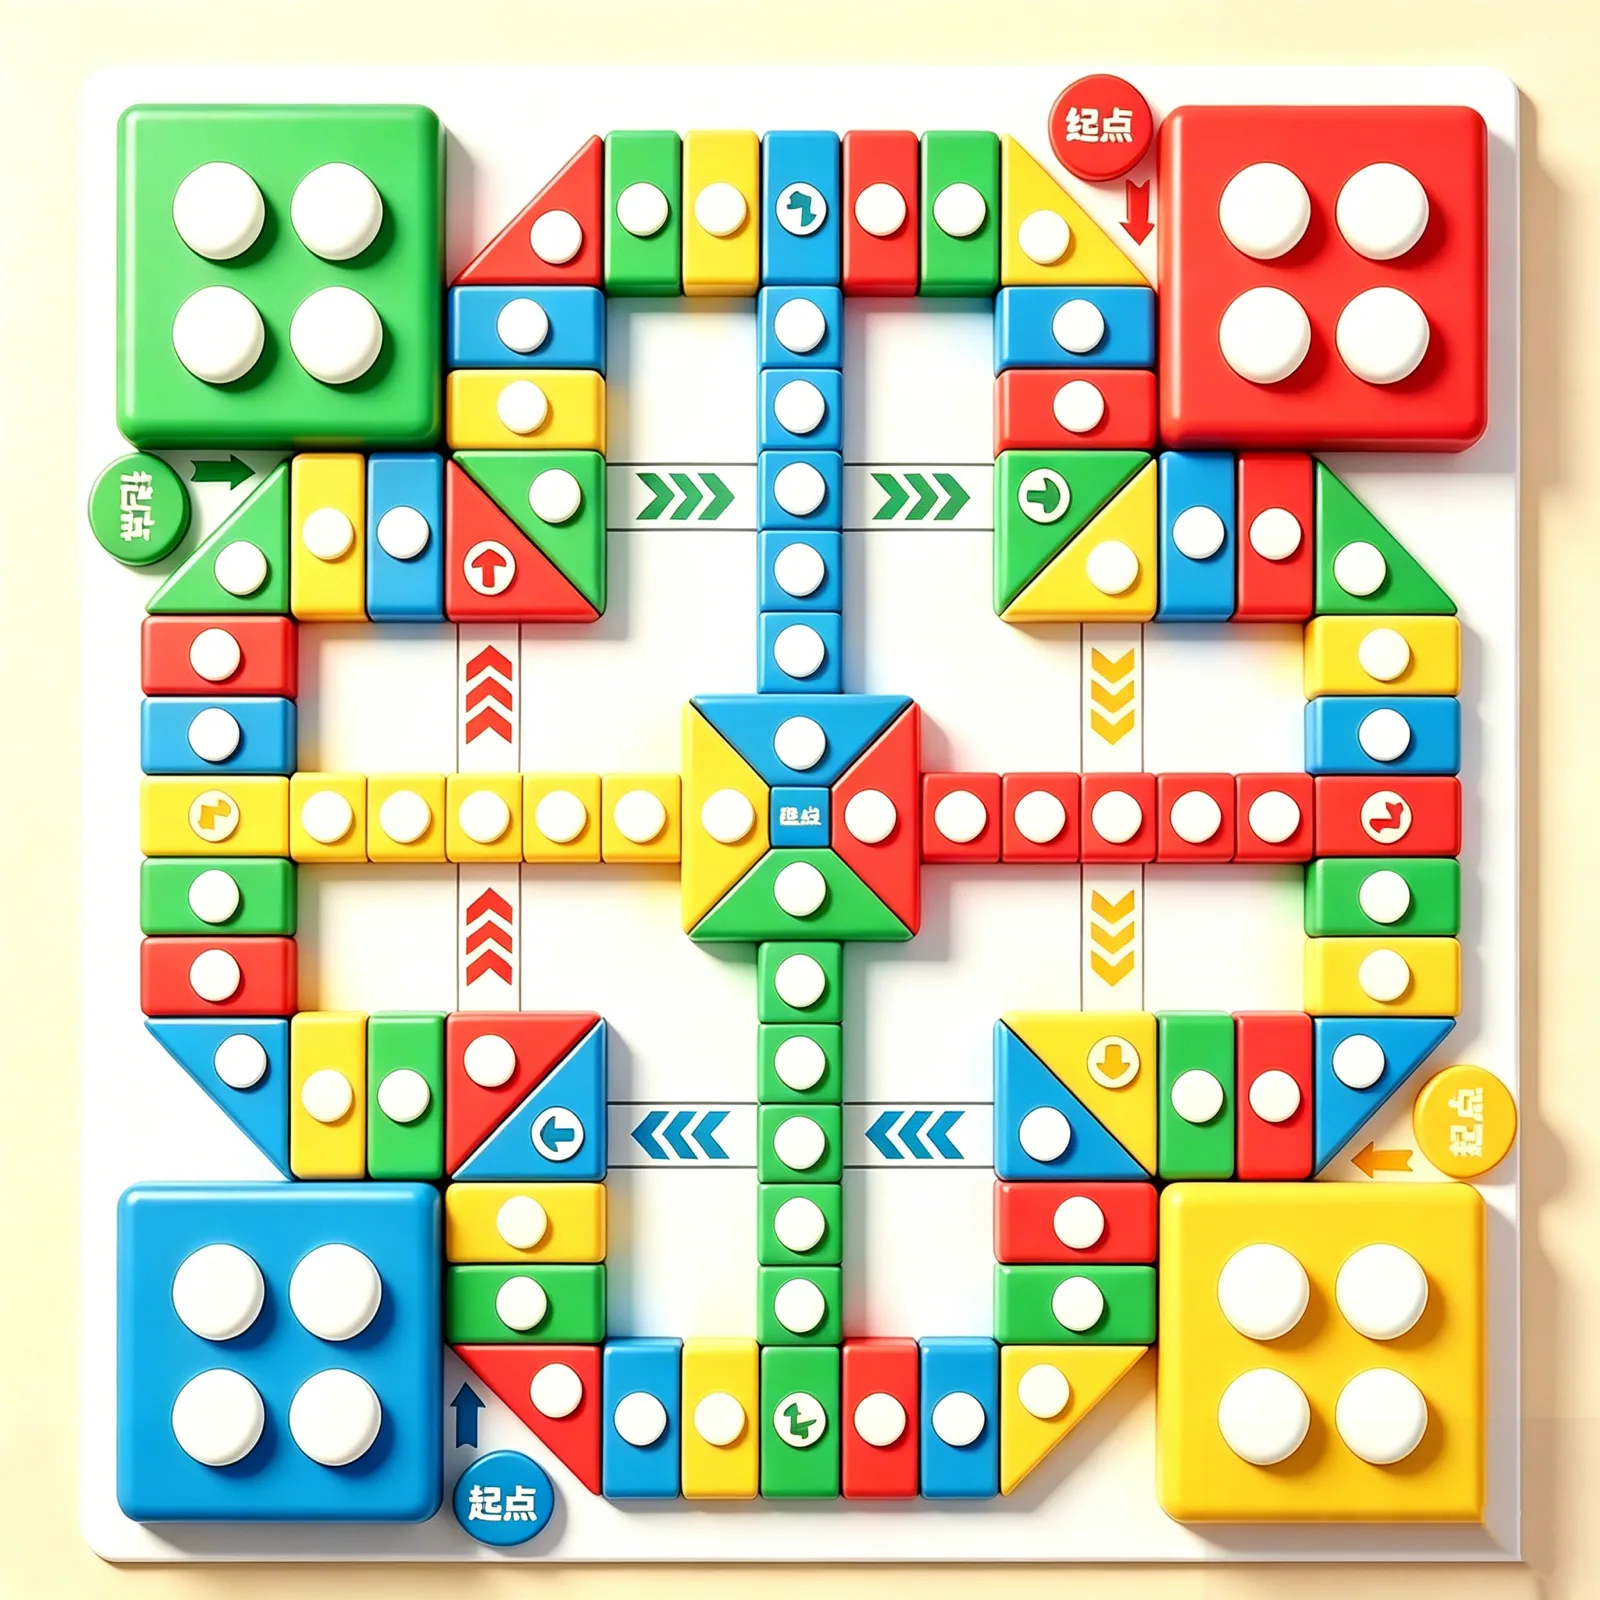
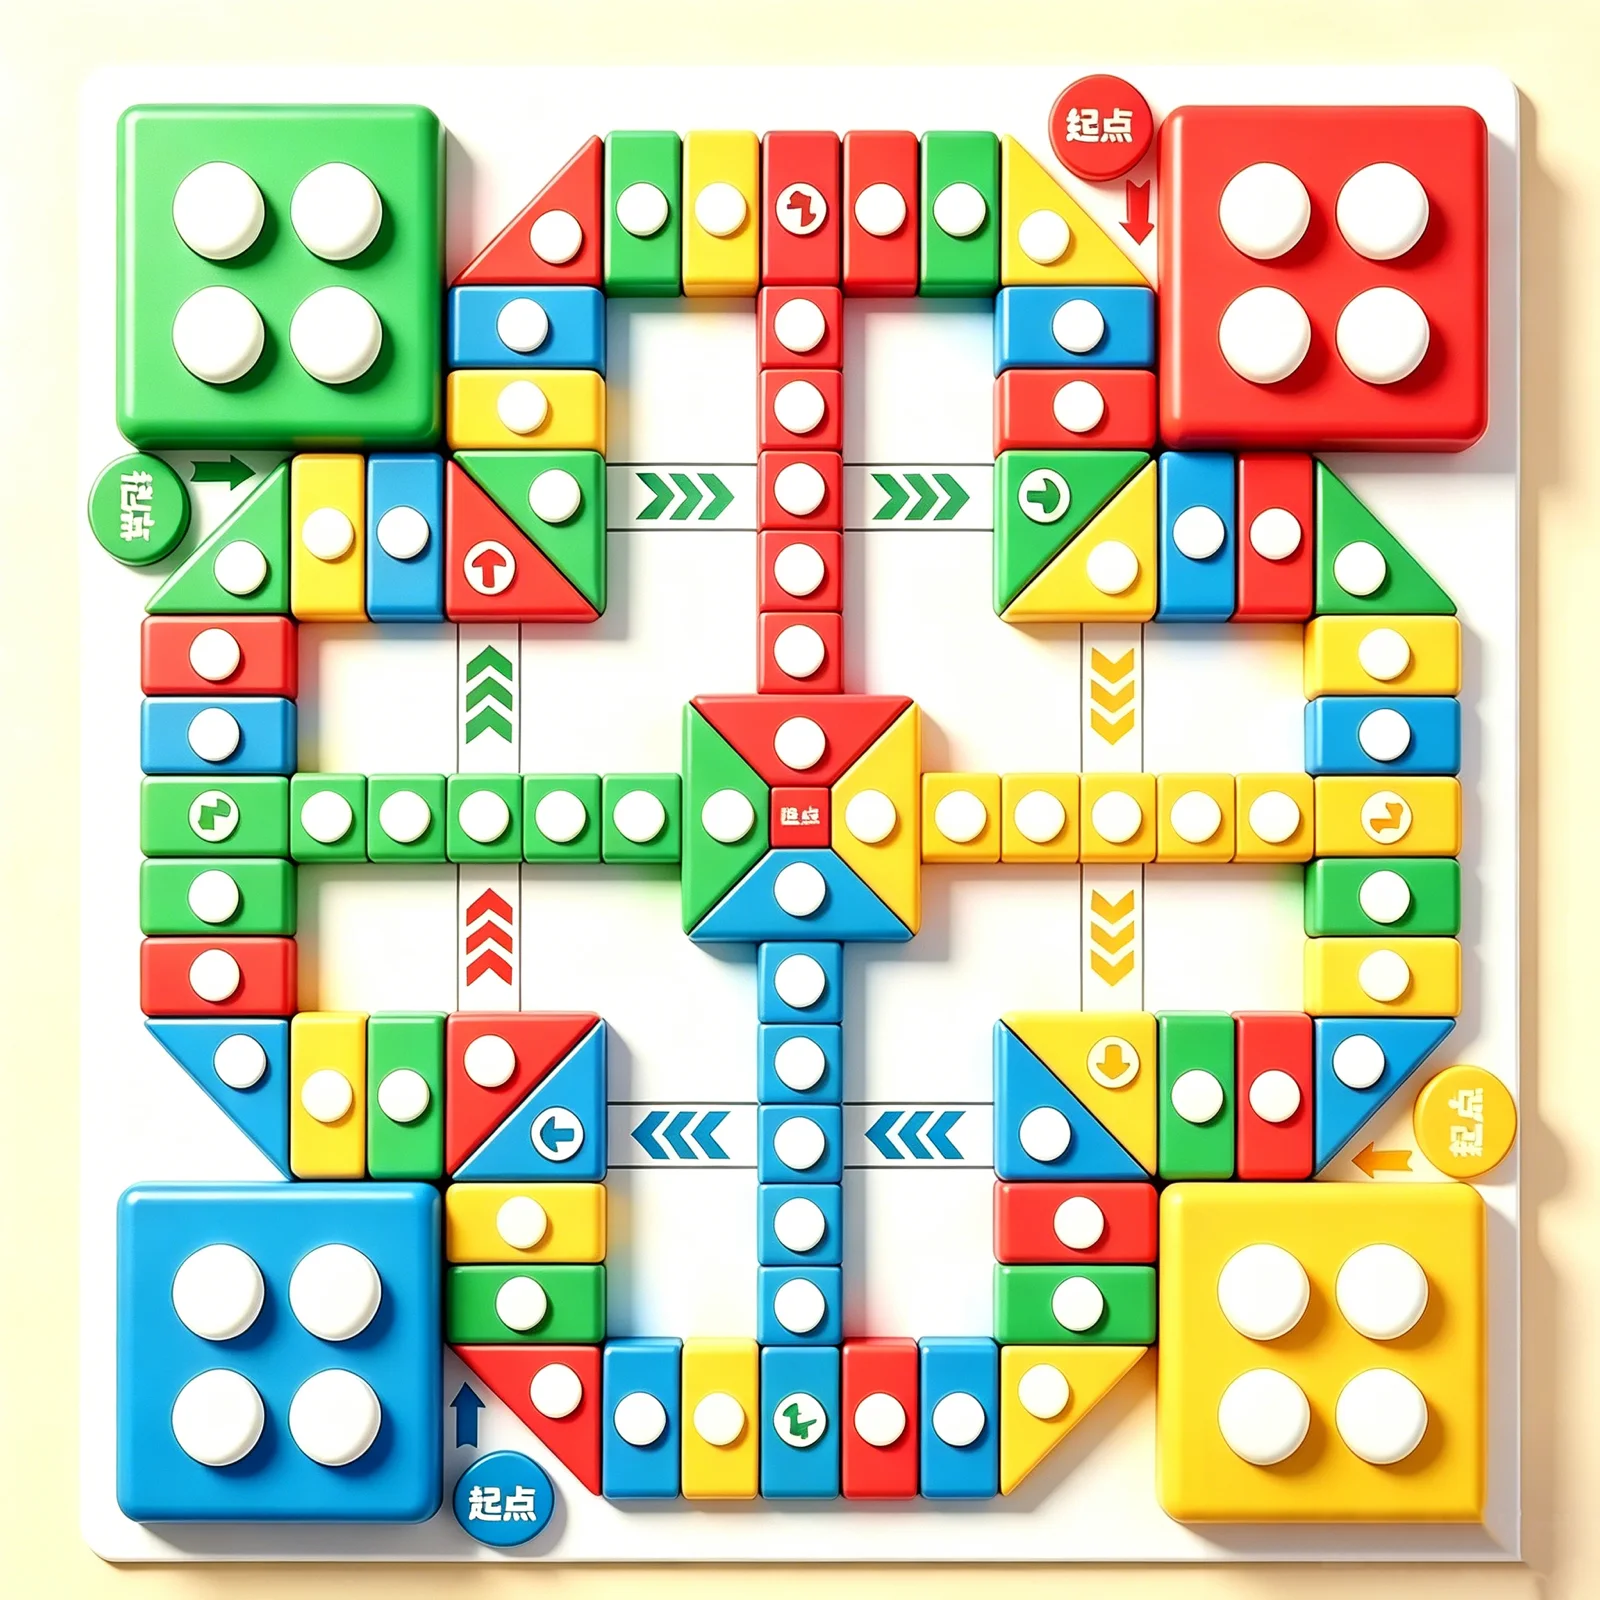
fix: calibrate board points and dice display

diff --git a/index.html b/index.html
@@ -181,6 +181,20 @@
             font: 12px/1.2 ui-monospace, SFMono-Regular, Menlo, Consolas, monospace;
             pointer-events: none; display: none;
         }
+        .board.preview-board .debug-label { display: none; }
+        .board.debug-coords .debug-label { display: grid; }
+        .debug-label {
+            position: absolute; transform: translate(-50%, -50%); z-index: 35;
+            width: 22px; height: 22px; border-radius: 50%;
+            background: #111d; color: #fff; font-size: 11px; font-weight: 1000;
+            place-items: center; pointer-events: none; text-shadow: 0 1px 1px #000;
+            box-shadow: 0 0 0 2px #fff, 0 2px 6px #0008;
+        }
+        .debug-label.problem {
+            width: 30px; height: 30px; background: #ff2b2be6; color: #fff;
+            box-shadow: 0 0 0 3px #fff, 0 0 0 6px #ffe600, 0 4px 10px #0009;
+            font-size: 13px;
+        }
         .board::before {
             content: ""; position: absolute; inset: 0;
             background:
@@ -274,13 +288,13 @@
         .hint { color: #7d5a32; font-weight: 1000; }
         .badge { display: inline-block; border-radius: 999px; background: linear-gradient(180deg, #fff, #ffe8b5); padding: .38rem .62rem; font-size: 13px; font-weight: 1000; border: 1px solid #fff9; box-shadow: 0 5px 12px #5b35141c; }
         .dice-row {
-            display: grid; grid-template-columns: 118px 1fr; gap: 14px; align-items: center; margin-top: 14px;
+            display: grid; grid-template-columns: 118px 1fr; gap: clamp(24px, 3vw, 38px); align-items: center; margin-top: 14px;
             padding: 12px; border-radius: 24px; background: linear-gradient(135deg, #5d73ff, #8d52ff 55%, #ffb94c);
             box-shadow: 0 14px 28px #3c2f762e, inset 0 1px 0 #fff8;
         }
         .dice-container {
-            width: 106px; height: 106px; perspective: 600px; cursor: pointer;
-            display: grid; place-items: center; border-radius: 28px;
+            width: 106px; height: 106px; min-width: 106px; min-height: 106px; flex: 0 0 106px;
+            perspective: 600px; cursor: pointer; display: grid; place-items: center; border-radius: 28px; position: relative;
             background: radial-gradient(circle at 35% 25%, #fff, #ffe6a0 48%, #ef9f28 100%);
             box-shadow: inset 0 2px 0 #fff, 0 10px 20px #0003;
         }
@@ -358,11 +372,20 @@
         }
         /* 显示特定点数的类 */
         .dice-cube.show-1 { transform: rotateY(0deg) rotateX(0deg); }
-        .dice-cube.show-2 { transform: rotateX(90deg) rotateY(0deg); }
-        .dice-cube.show-3 { transform: rotateY(90deg) rotateX(0deg); }
-        .dice-cube.show-4 { transform: rotateY(-90deg) rotateX(0deg); }
-        .dice-cube.show-5 { transform: rotateX(-90deg) rotateY(0deg); }
+        .dice-cube.show-2 { transform: rotateX(-90deg) rotateY(0deg); }
+        .dice-cube.show-3 { transform: rotateY(-90deg) rotateX(0deg); }
+        .dice-cube.show-4 { transform: rotateY(90deg) rotateX(0deg); }
+        .dice-cube.show-5 { transform: rotateX(90deg) rotateY(0deg); }
         .dice-cube.show-6 { transform: rotateY(180deg) rotateX(0deg); }
+        .dice-flat {
+            position: absolute; width: 62px; height: 62px; border-radius: 11px;
+            background: linear-gradient(145deg, #fff, #fff1cf); border: 2px solid #8c5d24;
+            box-shadow: inset -4px -4px 8px #0001, inset 4px 4px 8px #fff, 0 5px 10px #0002;
+            display: none; grid-template-columns: repeat(3, 1fr); grid-template-rows: repeat(3, 1fr); padding: 7px; z-index: 2;
+        }
+        .dice-container.final .dice-flat { display: grid; }
+        .dice-container.final .dice-cube { visibility: hidden; }
+        .dice-flat .pip { width: 12px; height: 12px; align-self: center; justify-self: center; }
         .roll-btn {
             height: 72px; font-size: 22px; border-radius: 22px;
             background: linear-gradient(180deg, #fff061, #ff982f 68%, #e85c20);
@@ -492,7 +515,7 @@
             .status { padding: .62rem; border-radius: 18px; align-items: flex-start; }
             .current-name { font-size: 20px; }
             .badge { font-size: 11px; padding: .28rem .46rem; }
-            .dice-row { grid-template-columns: 92px 1fr; gap: 10px; padding: 9px; border-radius: 20px; }
+            .dice-row { grid-template-columns: 92px 1fr; gap: 16px; padding: 9px; border-radius: 20px; }
             .dice-container { width: 86px; height: 86px; border-radius: 22px; }
             .dice-cube { width: 54px; height: 54px; }
             .face.front  { transform: rotateY(0deg) translateZ(27px); }
@@ -725,12 +748,14 @@
                                     <div class="pip"></div>
                                 </div>
                             </div>
+                            <div class="dice-flat" id="diceFlat" aria-hidden="true"></div>
                         </div>
                         <button class="roll-btn" id="rollBtn">🎲 掷骰子</button>
                     </div>
                     <div class="actions">
                         <button class="secondary" id="backSetupBtn">返回设置</button>
                         <button class="secondary" id="gameHomeBtn">返回大厅</button>
+                        <button class="secondary" id="debugCoordsBtn">点位数字</button>
                         <button class="warn" id="newGameBtn">重开</button>
                     </div>
                 </div>
@@ -823,12 +848,34 @@
         } catch(e) { console.log('音效播放失败'); }
     }
 
+    function setFlatDice(value) {
+        const diceFlat = document.getElementById('diceFlat');
+        const diceContainer = document.getElementById('diceContainer');
+        if (!diceFlat || !diceContainer) return;
+        const positions = {
+            1: [5],
+            2: [1, 9],
+            3: [1, 5, 9],
+            4: [1, 3, 7, 9],
+            5: [1, 3, 5, 7, 9],
+            6: [1, 3, 4, 6, 7, 9]
+        };
+        diceFlat.innerHTML = (positions[value] || []).map(pos => `<span class="pip" style="grid-column:${((pos - 1) % 3) + 1};grid-row:${Math.floor((pos - 1) / 3) + 1}"></span>`).join('');
+        diceContainer.classList.add('final');
+    }
+
+    function showRollingDice() {
+        const diceContainer = document.getElementById('diceContainer');
+        if (diceContainer) diceContainer.classList.remove('final');
+    }
+
     // ========== 3D骰子动画系统 (基于 ludo-dice-roller) ==========
     function animateDiceRoll(callback) {
         const diceCube = document.getElementById('diceCube');
         if (!diceCube) { if (callback) callback(); return; }
 
         playDiceRollSound();
+        showRollingDice();
 
         // 添加滚动动画类
         diceCube.classList.remove('show-1', 'show-2', 'show-3', 'show-4', 'show-5', 'show-6');
@@ -838,17 +885,11 @@
 
         setTimeout(() => {
             diceCube.classList.remove('rolling');
-
-            // 移除所有show类
-            for (let i = 1; i <= 6; i++) {
-                diceCube.classList.remove('show-' + i);
-            }
-
-            // 添加结果类
+            for (let i = 1; i <= 6; i++) diceCube.classList.remove('show-' + i);
             diceCube.classList.add('show-' + result);
-
             playDiceResultSound(result);
-
+            diceCube.dataset.finalRoll = String(result);
+            setFlatDice(result);
             if (callback) callback(result);
         }, 700);
     }
@@ -860,16 +901,18 @@
         G: { name: "绿", emoji: "🟢", css: "G" }
     };
 
-    const START_INDEX = { R: 6, Y: 18, B: 30, G: 42 };
-    const ENTRY_INDEX = { R: 3, Y: 15, B: 27, G: 39 };
+    const OUTER_PATH_LENGTH = 52;
+    const ENTRY_STEPS = 49;
+    const START_INDEX = { R: 6, Y: 18, B: 31, G: 43 };
+    const ENTRY_INDEX = { R: 3, Y: 15, B: 28, G: 40 };
     const COLOR_ORDER = ["Y", "B", "R", "G"];
     const RANKS = ["A", "2", "3", "4", "5", "6", "7", "8", "9", "10", "J", "Q", "K"];
 
     const baseSlots = {
         G: [{ x: 13.35, y: 12.76 }, { x: 20.71, y: 12.80 }, { x: 13.32, y: 20.51 }, { x: 20.70, y: 20.52 }],
         R: [{ x: 78.84, y: 12.75 }, { x: 86.24, y: 12.76 }, { x: 78.87, y: 20.52 }, { x: 86.27, y: 20.52 }],
-        B: [{ x: 13.32, y: 80.48 }, { x: 20.65, y: 80.46 }, { x: 13.31, y: 88.31 }, { x: 20.61, y: 88.31 }],
-        Y: [{ x: 78.78, y: 80.36 }, { x: 86.21, y: 80.36 }, { x: 78.80, y: 88.13 }, { x: 86.20, y: 88.02 }]
+        Y: [{ x: 78.78, y: 80.36 }, { x: 86.21, y: 80.36 }, { x: 78.80, y: 88.13 }, { x: 86.20, y: 88.02 }],
+        B: [{ x: 13.32, y: 80.48 }, { x: 20.65, y: 80.46 }, { x: 13.31, y: 88.31 }, { x: 20.61, y: 88.31 }]
     };
 
     const outerPath = makeOuterPath();
@@ -933,7 +976,7 @@
         playersList: el("playersList"), log: el("log"), coordTip: el("coordTip"),
         modalBg: el("modalBg"), modal: document.querySelector("#modalBg .modal"), modalSub: el("modalSub"), modalTitle: el("modalTitle"),
         modalBody: el("modalBody"), modalOk: el("modalOk"),
-        backSetupBtn: el("backSetupBtn"), gameHomeBtn: el("gameHomeBtn"), newGameBtn: el("newGameBtn")
+        backSetupBtn: el("backSetupBtn"), gameHomeBtn: el("gameHomeBtn"), debugCoordsBtn: el("debugCoordsBtn"), newGameBtn: el("newGameBtn")
     };
 
     let tasks = loadTasks();
@@ -989,6 +1032,7 @@
         els.modalOk.onclick = () => { els.modalBg.style.display = "none"; modalOpen = false; showNextModal(); };
         els.backSetupBtn.onclick = returnToSetupFromGame;
         els.gameHomeBtn.onclick = goHome;
+        els.debugCoordsBtn.onclick = toggleDebugCoords;
         els.newGameBtn.onclick = () => { if (confirm("重开游戏？")) { localStorage.removeItem(STATE_KEY); state = null; showSetup(); } };
         els.board.onmousemove = updateCoordTip;
         els.board.onclick = updateCoordTip;
@@ -1108,16 +1152,60 @@
 
     function makeOuterPath() {
         const points = [
-            [34.68, 14.68], [40.06, 12.92], [44.93, 12.92], [50.01, 13.09], [54.97, 12.95], [59.89, 12.97],
-            [65.19, 14.62], [67.35, 20.26], [67.37, 25.29], [69.45, 35.26], [74.89, 33.19], [79.65, 33.22],
-            [84.95, 35.37], [86.39, 40.79], [86.51, 45.86], [86.10, 50.27], [86.52, 55.88], [86.57, 60.68],
-            [84.87, 66.26], [79.62, 68.27], [74.71, 68.17], [65.28, 70.83], [67.37, 76.24], [67.26, 81.30],
-            [65.17, 86.82], [59.87, 88.59], [54.93, 88.51], [49.93, 88.47], [44.84, 88.50], [39.93, 88.57],
-            [34.68, 86.80], [32.47, 81.29], [32.44, 76.07], [30.53, 66.18], [25.12, 68.33], [20.37, 68.20],
-            [14.96, 66.24], [13.34, 60.86], [13.26, 55.90], [13.30, 50.92], [13.31, 45.82], [13.36, 40.81],
-            [14.92, 35.36], [20.37, 33.20], [25.10, 33.18], [32.58, 25.26], [32.59, 20.21], [34.68, 14.68]
+            [34.85, 34.10],
+            [32.56, 25.29],
+            [32.60, 20.20],
+            [34.69, 14.68],
+            [40.07, 12.94],
+            [44.93, 12.94],
+            [50.01, 13.06],
+            [54.98, 12.99],
+            [59.92, 13.00],
+            [65.19, 14.65],
+            [67.35, 20.27],
+            [67.36, 25.31],
+            [66.85, 35.25],
+            [69.30, 35.30],
+            [75.14, 35.85],
+            [79.62, 35.85],
+            [84.97, 35.42],
+            [86.46, 40.78],
+            [86.53, 45.86],
+            [86.19, 50.83],
+            [86.53, 55.96],
+            [86.48, 60.88],
+            [84.89, 66.29],
+            [79.63, 68.39],
+            [74.79, 68.41],
+            [69.45, 68.41],
+            [65.30, 70.86],
+            [67.38, 76.35],
+            [67.31, 81.42],
+            [65.18, 86.86],
+            [59.89, 88.66],
+            [54.95, 88.62],
+            [50.02, 88.69],
+            [44.85, 88.58],
+            [39.95, 88.65],
+            [34.67, 86.84],
+            [32.51, 81.39],
+            [32.50, 76.30],
+            [34.90, 68.85],
+            [30.55, 66.23],
+            [25.13, 68.37],
+            [20.35, 68.37],
+            [14.93, 66.26],
+            [13.34, 60.89],
+            [13.29, 55.95],
+            [13.32, 50.99],
+            [13.32, 45.84],
+            [13.34, 40.80],
+            [14.10, 35.30],
+            [20.36, 33.21],
+            [25.11, 33.20],
+            [30.60, 35.47]
         ];
-        return points.map(([x, y], i) => ({ x, y, corner: i % 6 === 0 }));
+        return points.map(([x, y], i) => ({ x, y, corner: i % 13 === 0 }));
     }
 
     function makeStraightPath() {
@@ -1246,13 +1334,61 @@
         } catch { alert("存档损坏。"); }
     }
 
+    let debugCoords = false;
+
     function showGame() {
         document.body.classList.remove("home-mode");
         els.home.style.display = "none";
         els.setup.classList.remove("active");
         els.taskCenter.classList.remove("active");
         els.game.style.display = "block";
+        if (els.modalBg) {
+            els.modalBg.style.display = "none";
+            modalOpen = false;
+            modalQueue = [];
+        }
         renderAll();
+    }
+
+    function toggleDebugCoords() {
+        debugCoords = !debugCoords;
+        els.board.classList.toggle('debug-coords', debugCoords);
+        renderBoardDebugLabels();
+    }
+
+    function renderBoardDebugLabels() {
+        els.board.querySelectorAll('.debug-label').forEach(n => n.remove());
+        if (!debugCoords) return;
+        const problemPoints = new Set([1, 11, 12, 13, 38, 40, 49, 52]);
+        outerPath.forEach((pos, i) => {
+            const pointNo = i + 1;
+            const n = document.createElement('div');
+            n.className = `debug-label ${problemPoints.has(pointNo) ? 'problem' : ''}`;
+            n.style.left = pos.x + '%';
+            n.style.top = pos.y + '%';
+            n.textContent = pointNo;
+            els.board.appendChild(n);
+        });
+        Object.keys(straightPath).forEach(color => {
+            straightPath[color].forEach((pos, i) => {
+                const n = document.createElement('div');
+                n.className = 'debug-label';
+                n.style.left = pos.x + '%';
+                n.style.top = pos.y + '%';
+                n.textContent = `${color}${i + 1}`;
+                els.board.appendChild(n);
+            });
+        });
+        Object.entries(baseSlots).forEach(([color, slots]) => {
+            slots.forEach((pos, i) => {
+                const n = document.createElement('div');
+                n.className = 'debug-label';
+                n.style.left = pos.x + '%';
+                n.style.top = pos.y + '%';
+                n.textContent = `${color}B${i + 1}`;
+                els.board.appendChild(n);
+            });
+        });
     }
 
     function rollDice() {
@@ -1322,13 +1458,13 @@
             if (remain > 0) moveStraight(p, remain, true);
             return;
         }
-        p.outerIndex = (START_INDEX[p.color] + p.outerSteps) % 48;
+        p.outerIndex = (START_INDEX[p.color] + p.outerSteps) % OUTER_PATH_LENGTH;
         addLog(`${label(p)} 落在外圈第 ${p.outerIndex+1} 格。`);
         triggerOuterTask(p, p.outerIndex);
     }
 
     function stepsToEntry(color) {
-        return (ENTRY_INDEX[color] - START_INDEX[color] + 48) % 48;
+        return ENTRY_STEPS;
     }
 
     function moveStraight(p, steps, fromOuter = false) {
@@ -1431,14 +1567,15 @@
         if (state.lastRoll) {
             const diceCube = document.getElementById('diceCube');
             if (diceCube) {
-                for (let i = 1; i <= 6; i++) {
-                    diceCube.classList.remove('show-' + i);
-                }
+                for (let i = 1; i <= 6; i++) diceCube.classList.remove('show-' + i);
                 diceCube.classList.add('show-' + state.lastRoll);
+                diceCube.dataset.finalRoll = String(state.lastRoll);
+                setFlatDice(state.lastRoll);
             }
         }
 
         els.rollBtn.disabled = rolling || modalOpen || state.gameOver;
+        if (debugCoords) renderBoardDebugLabels();
         renderPieces(); renderPlayersList(); renderLog();
     }
 